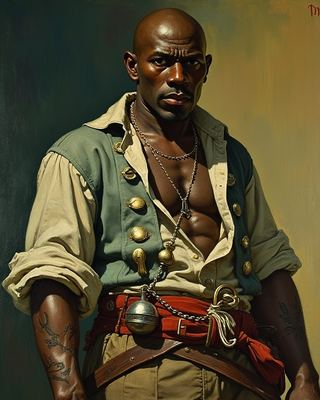
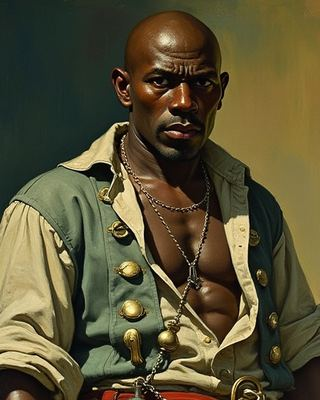
Portraits for captains, Crane, harbour masters, tavern keeper, dice rival and 12 crew faces; fallback event paintings
Generated with the local ComfyUI (FLUX.1-dev fp8 + Schoonover LoRA 0.45), 31 images.

diff --git a/tools/art/finish_portraits.py b/tools/art/finish_portraits.py
@@ -8,11 +8,15 @@ DEST = os.path.join(HERE, "..", "..", "public", "art")
 MAN = os.path.join(DEST, "manifest.json")
 
 
+# Figures painted at half length need a closer crop to read as head and shoulders.
+ZOOM = {"portrait-captain-bosun": 0.62, "portrait-tavern": 0.66}
+
+
 def finalize(name):
     im = Image.open(os.path.join(RAW, name + ".png")).convert("RGB")
     w, h = im.size
     # Head and shoulders: the middle 82% of the width, from just under the top, at 4:5.
-    cw = round(w * 0.82); ch = round(cw * 1.25)
+    cw = round(w * ZOOM.get(name, 0.82)); ch = round(cw * 1.25)
     x = (w - cw) // 2; y = min(round(h * 0.02), h - ch)
     im = im.crop((x, y, x + cw, y + ch)).resize((320, 400), Image.LANCZOS)
     out = os.path.join(DEST, name + ".jpg")

diff --git a/tools/art/README.md b/tools/art/README.md
@@ -9,3 +9,9 @@ Painted illustrations in `public/art/` were made with a local ComfyUI (http://12
 - `prompts.json` records every prompt tried per image.
 
 New event art: name it `event-<event id>.jpg`; the event scene picks it up automatically.
+
+Portraits (`public/art/portrait-*.jpg`, 320x400, loaded up front; see `src/data/portraits.ts`):
+
+- `gen_portraits.py jobs_portraits.json [name ...]` uses the same Flux + LoRA recipe with a head-and-shoulders style suffix at 768x960.
+- `finish_portraits.py [name ...]` crops to 4:5, saves a small JPEG and adds it to the manifest.
+- Events without a painting fall back to `event-fallback-sea|aboard|weather.jpg` (`jobs_chart.json`).
